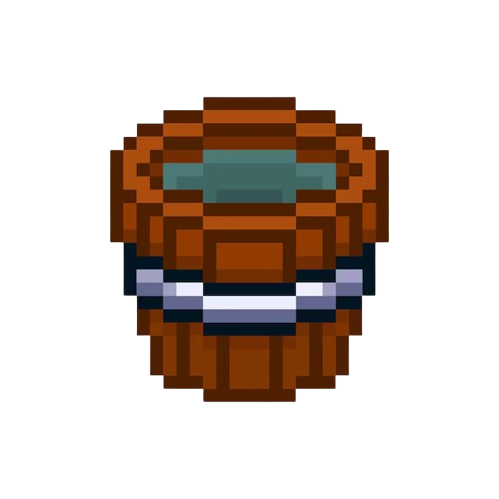
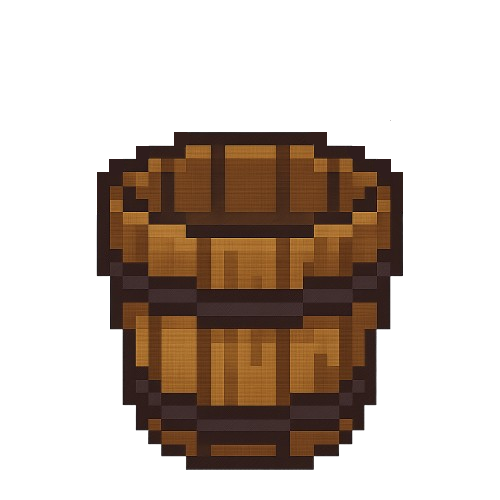
implementacion de sistema de llenado y vaciado de cubeta

diff --git a/inventory.py b/inventory.py
@@ -30,7 +30,8 @@ class Inventory:
             'stone': os.path.join('assets', 'images', 'objects', 'small_stone2.png'),
             'axe': os.path.join('assets', 'images', 'objects', 'axe.png'),
             'hoe': os.path.join('assets', 'images', 'objects', 'hoe.png'),
-            'bucket' : os.path.join('assets', 'images', 'objects', 'bucket.png')
+            'bucket' : os.path.join('assets', 'images', 'objects', 'bucket.png'),
+            'water_bucket' : os.path.join('assets', 'images', 'objects', 'bucket-full.png')
         }
 
         #definir recetas de crafteo
@@ -282,14 +283,14 @@ class Inventory:
         if button == 1: #left click
             if hand == 'left':
                 if self.dragged_item:
-                    if self.dragged_item.name in ['axe', 'hoe', 'bucket']: #allow axe, how and buckets in hands
+                    if self.dragged_item.name in ['axe', 'hoe', 'bucket', 'water_bucket']: #allow axe, how and buckets in hands
                         self.left_hand, self.dragged_item = self.dragged_item, self.left_hand
                 elif self.left_hand:
                     self.dragged_item = self.left_hand
                     self.left_hand = None
             else:
                 if self.dragged_item:
-                    if self.dragged_item.name in ['axe', 'hoe', 'bucket']: #allow axe, how and buckets in hands
+                    if self.dragged_item.name in ['axe', 'hoe', 'bucket', 'water_bucket']: #allow axe, how and buckets in hands
                         self.right_hand, self.dragged_item = self.dragged_item, self.right_hand
                 elif self.right_hand:
                     self.dragged_item = self.right_hand
@@ -307,11 +308,45 @@ class Inventory:
             (self.right_hand and self.right_hand.name == 'hoe')
         )
 
-    def has_bucket_eqipped(self):
-        return(
-            (self.left_hand and self.left_hand.name == 'bucket') or
-            (self.right_hand and self.right_hand.name == 'bucket')
-        )
+    def has_bucket_equipped(self):
+        #verifica si el jugador tiene una cubeta y en que mano
+        if self.left_hand and self.left_hand.name == 'bucket':
+            return True, 'left'
+        if self.right_hand and self.right_hand.name == 'bucket':
+            return True, 'right'
+        return False, None
+
+    def has_water_bucket_equipped(self):
+        #verifica si el jugador tiene una cubeta llena equipada y en que mano
+        if self.left_hand and self.left_hand.name == 'water_bucket':
+            return True, 'left'
+        if self.right_hand and self.right_hand.name == 'water_bucket':
+            return True, 'right'
+        return False, None
+
+    def empty_bucket(self, hand):
+        #cambia una cubeta llena por una vacia
+        if hand == 'left' and self.left_hand and self.left_hand.name == 'water_bucket':
+            #reemplazar cubeta llena por cubeta vacia
+            self.left_hand = InventoryItem('bucket', self.item_images['bucket'])
+            return True
+        elif hand == 'right' and self.right_hand and self.right_hand.name == 'water_bucket':
+            #reemplazar cubeta llena por cubeta vacia
+            self.right_hand = InventoryItem('bucket', self.item_images['bucket'])
+            return True
+        return False
+
+    def fill_bucket(self, hand):
+        #cambia una cubeta vacia por la llena de agua
+        if hand == 'left' and self.left_hand and self.left_hand.name == 'bucket':
+            #reemplazar cubeta vacia por cubeta llena
+            self.left_hand = InventoryItem('water_bucket', self.item_images['water_bucket'])
+            return True
+        elif hand == 'right' and self.right_hand and self.right_hand.name == 'bucket':
+            #reemplazar cubeta vacia por la cubeta llena
+            self.right_hand = InventoryItem('water_bucket', self.item_images['water_bucket'])
+            return True
+        return False
 
     def _return_dragged_item(self):
         #intentar devolver al hotbar primero

diff --git a/character.py b/character.py
@@ -291,10 +291,26 @@ class Character:
         #check if 'e' key is pressing and hoe is equipped
         keys = pygame.key.get_pressed()
 
-        #si está en el agua, beber agua
+        if keys[pygame.K_e]:
+            #verificar si tiene cubeta llena equipada
+            water_bucket_equipped, hand = self.inventory.has_water_bucket_equipped()
+            if water_bucket_equipped:
+                #por ahora, solo vaciaremos la cubeta
+                self.inventory.empty_bucket(hand)
+                return
+
+        #si está en el agua, verificar si tiene la cubeta equipada
         if keys[pygame.K_e] and self.is_in_water(world):
+            #verificar si tiene la cubeta equipada
+            bucket_equipped, hand = self.inventory.has_bucket_equipped()
+            if bucket_equipped:
+                #llenar la cubeta
+                self.inventory.fill_bucket(hand)
+                return
+            #si no tiene cubeta, solo beber agua
             self.update_thirst(constants.WATER_THIRST_RECOVERY)
             return
+
 
         #si tiene la azada equipada, usar la azada
         if keys[pygame.K_e] and self.inventory.has_hoe_equipped():
@@ -372,8 +388,18 @@ class Character:
         #mostrar mensaje si esta en el agua
         font = pygame.font.Font(None, 20)
         if hasattr(self, 'in_water') and self.in_water:
-            water_text = font.render("Press 'E' drink water", True, constants.WHITE)
-            screen.blit(water_text, (x_offset, y_offset + 25))
+            #verificar si tiene cubeta
+            bucket_equipped, _ = self.inventory.has_bucket_equipped()
+            water_bucket_equipped, _ = self.inventory.has_water_bucket_equipped()
+            if bucket_equipped:
+                water_text = font.render("press 'E' to fill bucket", True, constants.WHITE)
+                screen.blit(water_text, (x_offset, y_offset + 25))
+            elif water_bucket_equipped:
+                water_text = font.render("press 'E' to empty bucket", True, constants.WHITE)
+                screen.blit(water_text, (x_offset, y_offset + 25))
+            else:
+                water_text = font.render("press 'E' to drink water", True, constants.WHITE)
+                screen.blit(water_text, (x_offset, y_offset + 25))
 
     def update_status(self, world=None):
         #aplicar multiplicadores si está corriendo
